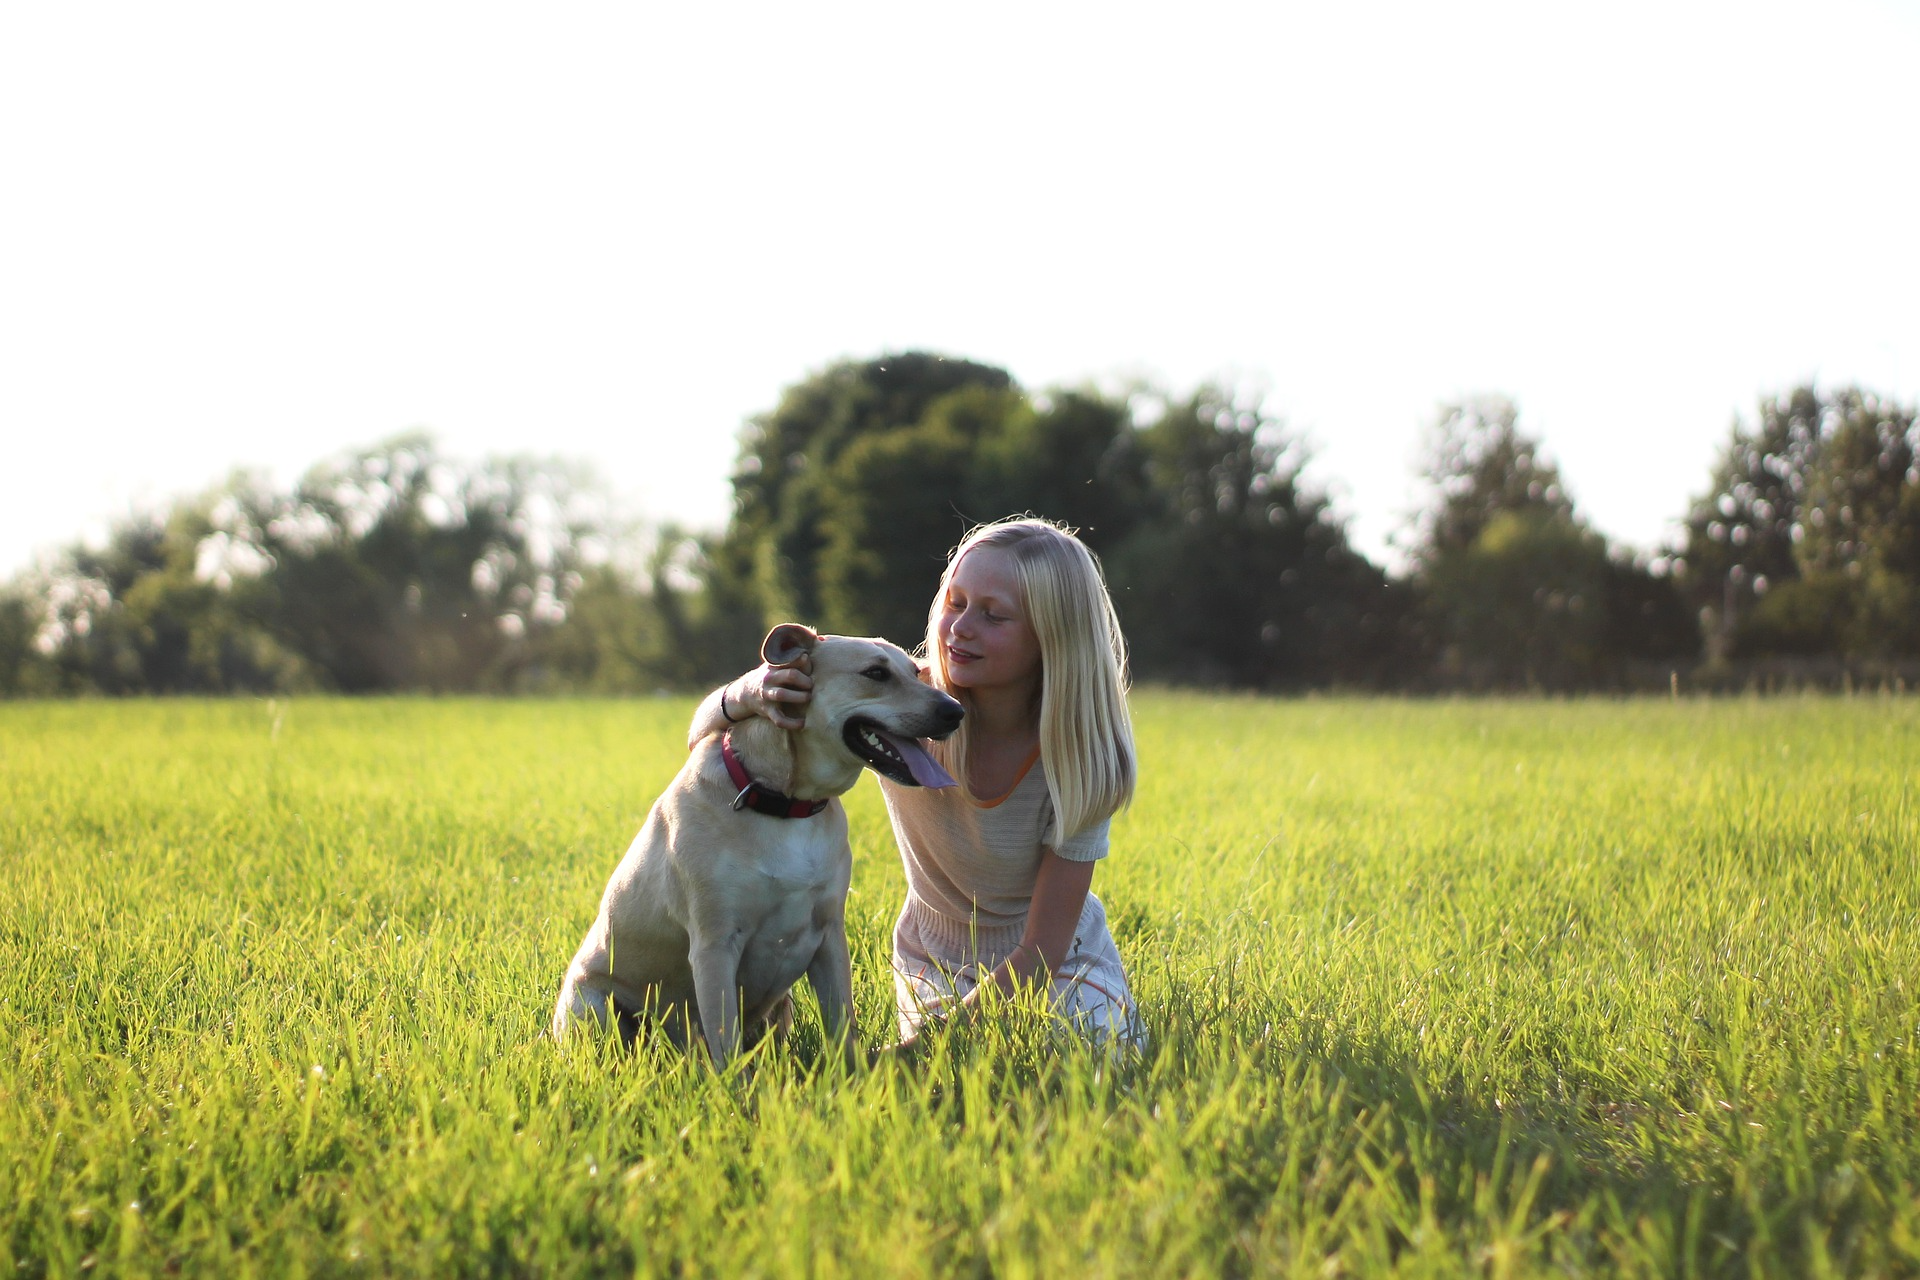
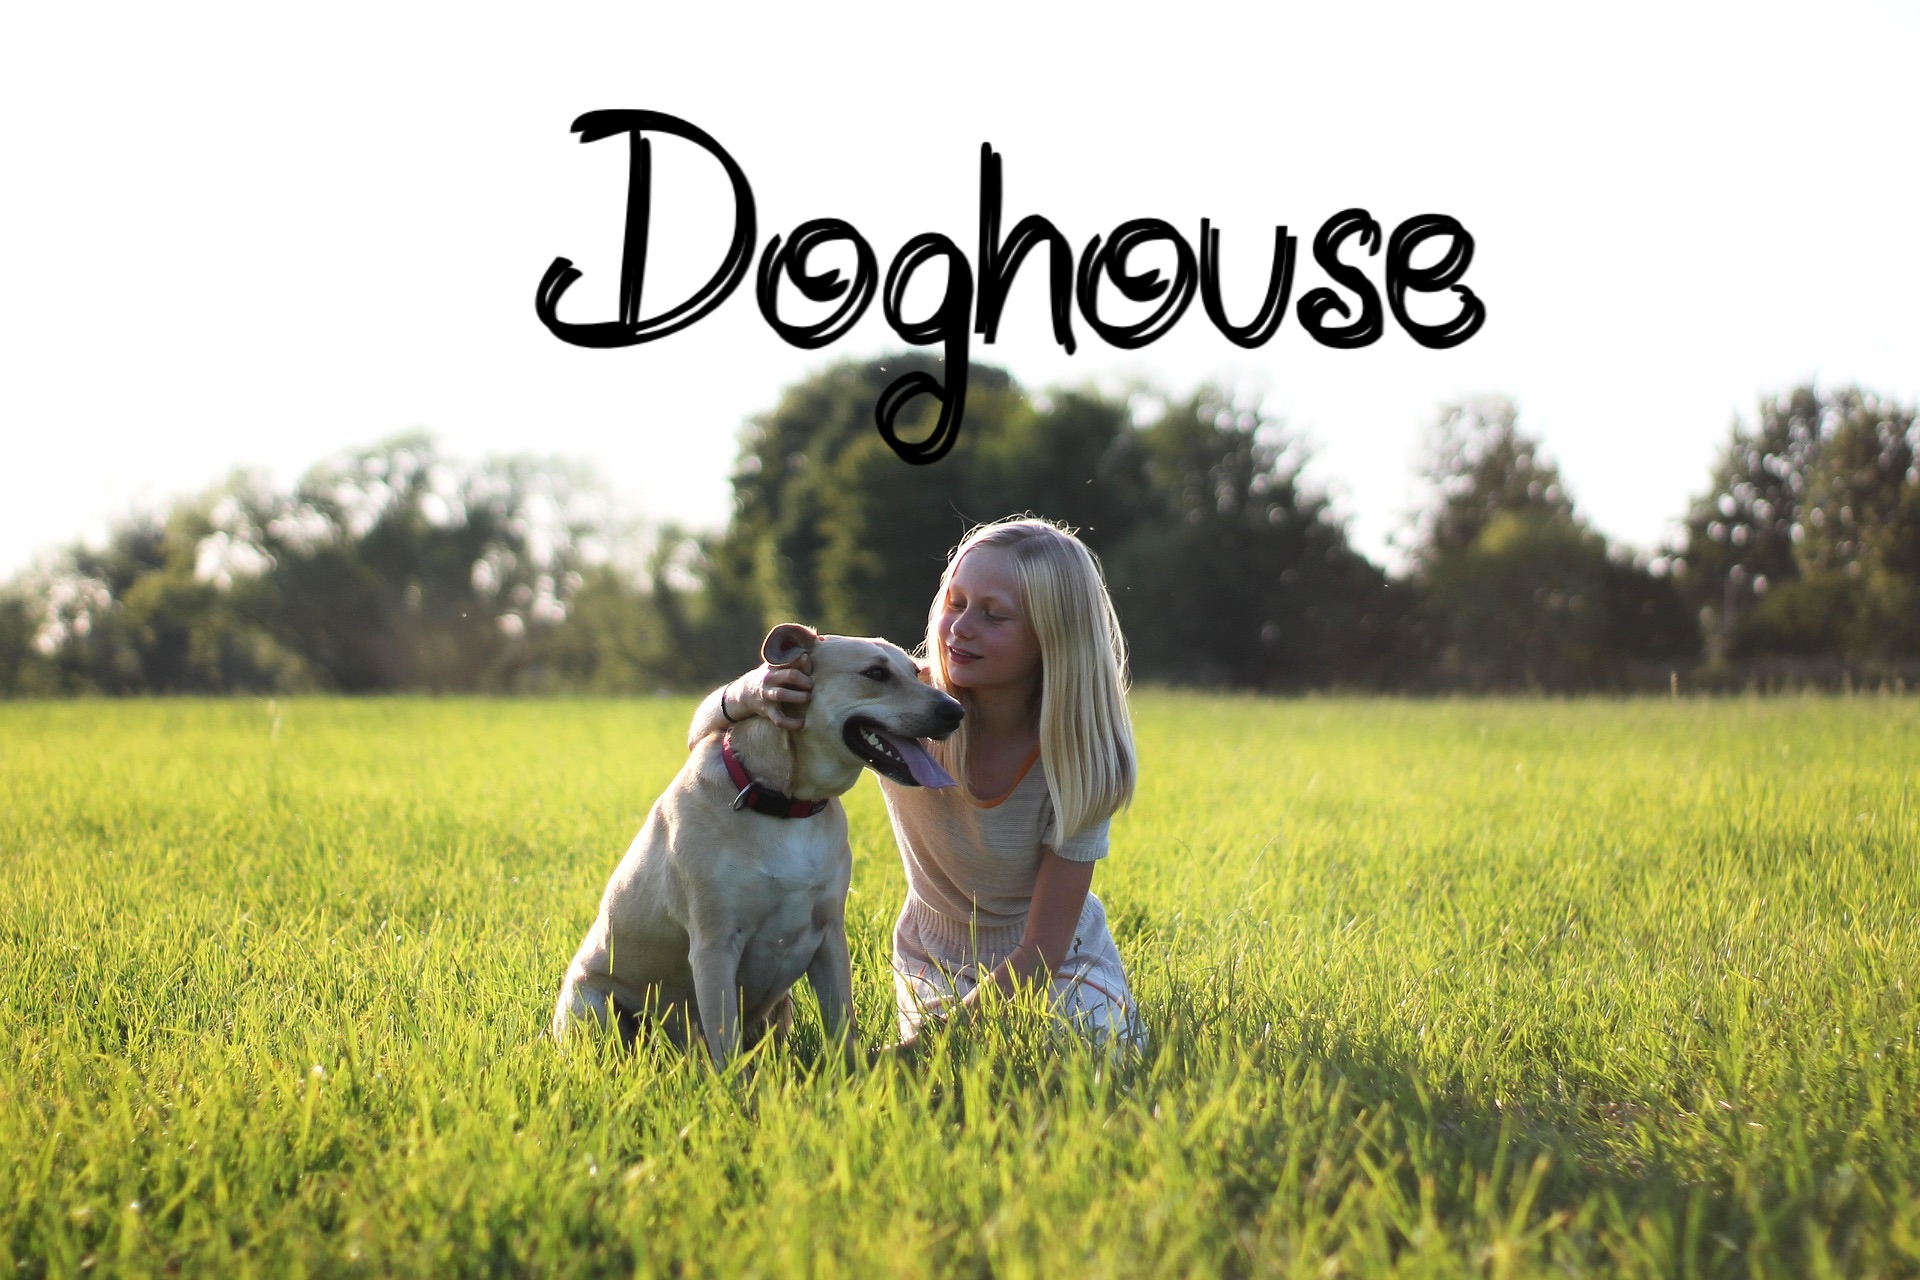
topページの装飾を変更

Changed region(s): [[0.2812, 0.0625, 0.7812, 0.375]]

diff --git a/app/assets/stylesheets/application.scss b/app/assets/stylesheets/application.scss
@@ -28,40 +28,54 @@
   border-radius: 50%;
 }
 
+.main-visual {
+	width: 100%;
+	height: 1100px;
+}
+
 .main-image {
-	height: 1200px;
-	background-image: url(mlo.png);
+	background-image: image-url("mlo.png");
 	background-repeat: no-repeat;
-	background-size: contain;
+	background-size: cover;
+	height: 1000px;
 }
 
-.body {
-  margin: 0;
-  width: 100vw;
-  height: 100vh;
-  background-image:
-    linear-gradient(140deg,
-      #00f3ffA0,
-      #0028b960 40%,
-      #00f3ff60 60%,
-      #00f3ffA0),
-      
-
-      url("https://magazine-cf.techacademy.jp/wp-content/uploads/2021/02/14012940/typing_on_laptop_712.jpg");
-  background-repeat: no-repeat;
-  background-position: 50%;
-  animation: move 20s infinite both;
-}
-
-@keyframes move{
-  0% {
-    background-size:100% auto;
+@media screen and (max-width: 375px) {
+  .main-visual {
+	  height: 160px;
   }
-  50% {
-    background-size:140% auto;
-  }
-  100% {
-    background-size:100% auto;
+  .main-image {
+	  height: 160px;
   }
 }
+
+// .body {
+//   margin: 0;
+//   width: 100vw;
+//   height: 100vh;
+//   background-image:
+//     linear-gradient(140deg,
+//       #00f3ffA0,
+//       #0028b960 40%,
+//       #00f3ff60 60%,
+//       #00f3ffA0),
+
+
+//       url("https://magazine-cf.techacademy.jp/wp-content/uploads/2021/02/14012940/typing_on_laptop_712.jpg");
+//   background-repeat: no-repeat;
+//   background-position: 50%;
+//   animation: move 20s infinite both;
+// }
+
+// @keyframes move{
+//   0% {
+//     background-size:100% auto;
+//   }
+//   50% {
+//     background-size:140% auto;
+//   }
+//   100% {
+//     background-size:100% auto;
+//   }
+// }
 

diff --git a/app/assets/stylesheets/home.scss b/app/assets/stylesheets/home.scss
@@ -1,3 +1,12 @@
 // Place all the styles related to the home controller here.
 // They will automatically be included in application.css.
 // You can use Sass (SCSS) here: http://sass-lang.com/
+
+// p {
+//   margin: 0;
+//   padding: 5px;
+//   text-align: center;
+//   color: #fff;
+//   background-color: #b59327;
+// }
+

diff --git a/db/schema.rb b/db/schema.rb
@@ -10,7 +10,7 @@
 #
 # It's strongly recommended that you check this file into your version control system.
 
-ActiveRecord::Schema.define(version: 2021_05_21_140018) do
+ActiveRecord::Schema.define(version: 2021_05_26_103109) do
 
   create_table "dogs", force: :cascade do |t|
     t.integer "user_id"
@@ -19,6 +19,7 @@ ActiveRecord::Schema.define(version: 2021_05_21_140018) do
     t.string "image_id"
     t.datetime "created_at", null: false
     t.datetime "updated_at", null: false
+    t.string "dogname"
   end
 
   create_table "users", force: :cascade do |t|

diff --git a/app/controllers/dogs_controller.rb b/app/controllers/dogs_controller.rb
@@ -51,7 +51,7 @@ class DogsController < ApplicationController
   private
   def dog_params
     # title,body,imageを許可して保存
-    params.require(:dog).permit(:title, :body, :image)
+    params.require(:dog).permit(:title, :body, :image, :dogname)
   end
 end
 

diff --git a/db/migrate/20210526103109_add_dogname_to_dogs.rb b/db/migrate/20210526103109_add_dogname_to_dogs.rb
@@ -1,0 +1,5 @@
+class AddDognameToDogs < ActiveRecord::Migration[5.2]
+  def change
+    add_column :dogs, :dogname, :string
+  end
+end
